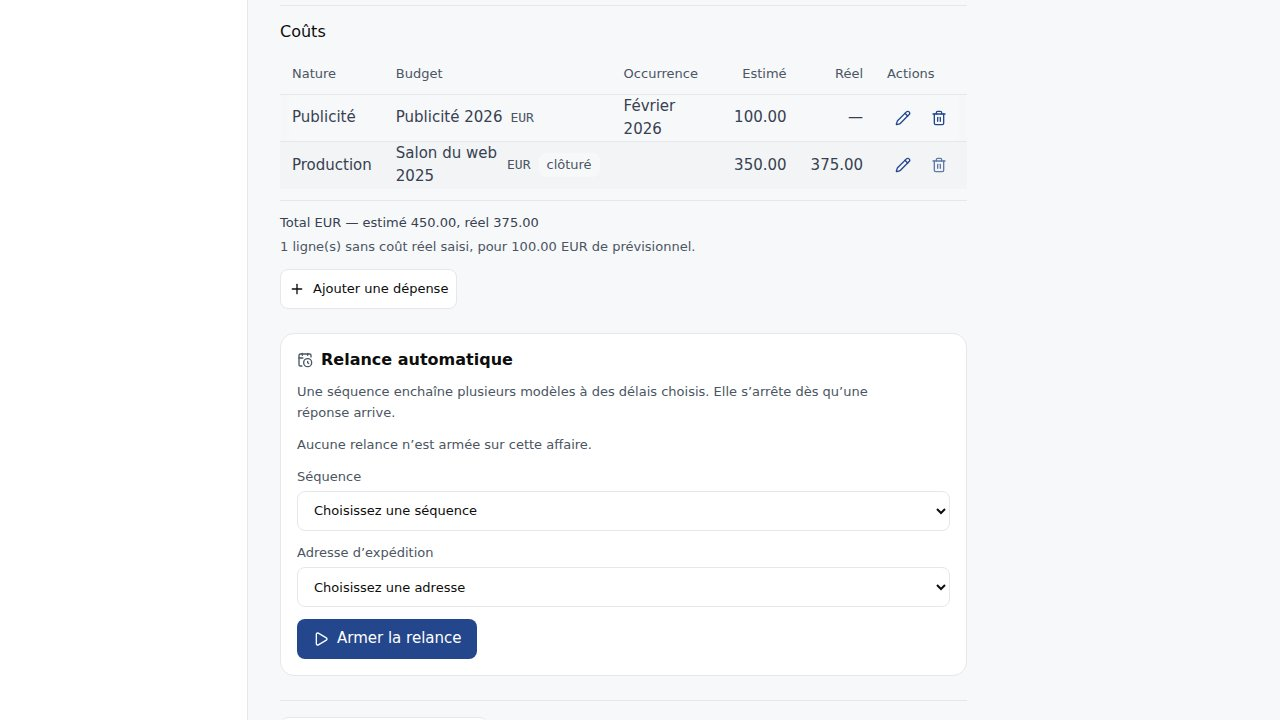
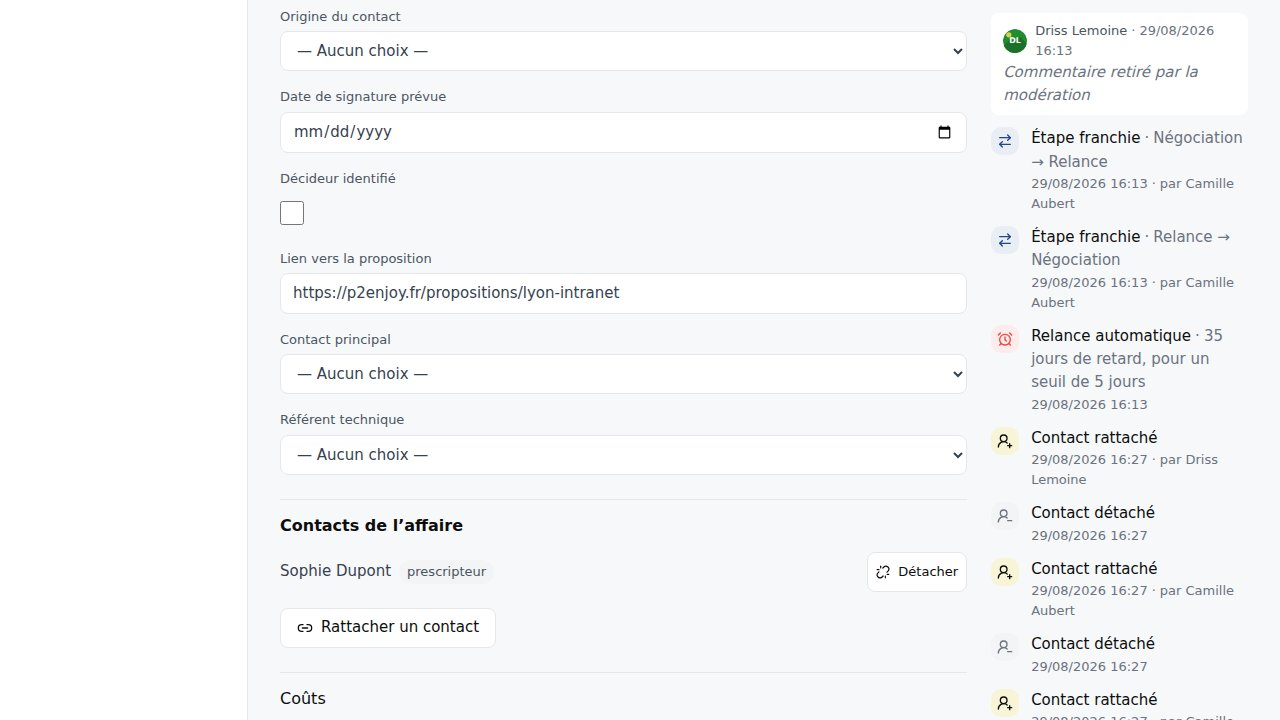
CRM-062 : la capture du fil porte enfin son sujet, et le scenario l'exige
scrollIntoViewIfNeeded ne suffisait pas, et c'est mesure : il defile le plus
proche ancetre defilable - ici la colonne du fil - sans garantir que l'element
entre dans la fenetre. La capture regeneree montrait encore le bas du fil, la
relance restee au-dessus.

Le defilement est desormais demande explicitement et centre, et le resultat est
ASSERTE par toBeInViewport : si l'image ne devait pas porter son sujet, le
scenario echoue au lieu de produire une capture muette.

Capture regeneree et OBSERVEE : elle montre la ligne
<< Relance automatique - 35 jours de retard, pour un seuil de 5 jours >>.
Neuf scenarios verts.

diff --git a/e2e/ui/affaires-figees.spec.ts b/e2e/ui/affaires-figees.spec.ts
@@ -170,11 +170,19 @@ test.describe('« Affaires figées » (docs/SPEC-relances.md §10)', () => {
 		// LE DÉTAIL COMPOSE LES DEUX CLÉS DU `payload`, par une clé de traduction et jamais par
 		// concaténation (§10.3.1). Les deux nombres sont ceux de la première affaire du jeu.
 		await expect(relance).toContainText('Relance automatique')
-		// LA LIGNE EST AMENÉE DANS LE CHAMP AVANT LA CAPTURE. La capture est prise sans `fullPage`,
-		// et le fil d'une affaire déjà riche pousse la relance sous la ligne de flottaison : l'image
-		// montrerait l'écran, pas ce qu'elle prétend prouver. Une capture qui ne porte pas son sujet
-		// n'est pas une vérification visuelle.
-		await relance.scrollIntoViewIfNeeded()
+		// LA LIGNE EST AMENÉE DANS LE CHAMP AVANT LA CAPTURE, ET LA CAPTURE LE VÉRIFIE — RÉVISÉ le
+		// 2026-08-29. La capture est prise sans `fullPage`, et le fil d'une affaire déjà riche pousse
+		// la relance sous la ligne de flottaison : l'image montrerait l'écran, pas ce qu'elle prétend
+		// prouver. Une capture qui ne porte pas son sujet n'est pas une vérification visuelle.
+		//
+		// `scrollIntoViewIfNeeded()` NE SUFFIT PAS, et c'est MESURÉ : il défile le plus proche
+		// ancêtre défilable — ici la colonne du fil — sans garantir que l'élément entre dans la
+		// FENÊTRE. La capture régénérée montrait encore le bas du fil, la relance restée au-dessus.
+		// Le défilement est donc demandé explicitement, centré, ET le résultat est ASSERTÉ : si
+		// l'image ne devait pas porter son sujet, le scénario échoue au lieu de produire une capture
+		// muette.
+		await relance.evaluate((element) => element.scrollIntoView({ block: 'center' }))
+		await expect(relance).toBeInViewport()
 		await capturer(page, 'relance-dans-le-fil-1440', UNITE)
 	})
 
